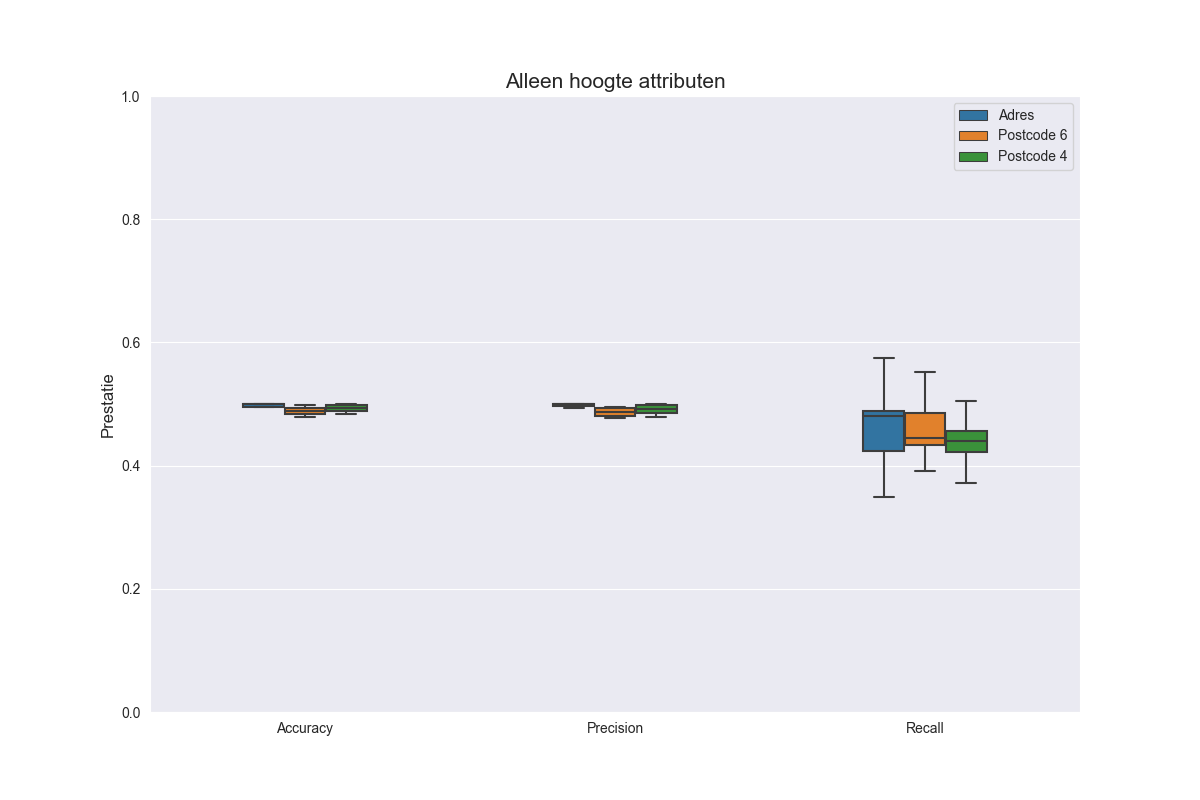
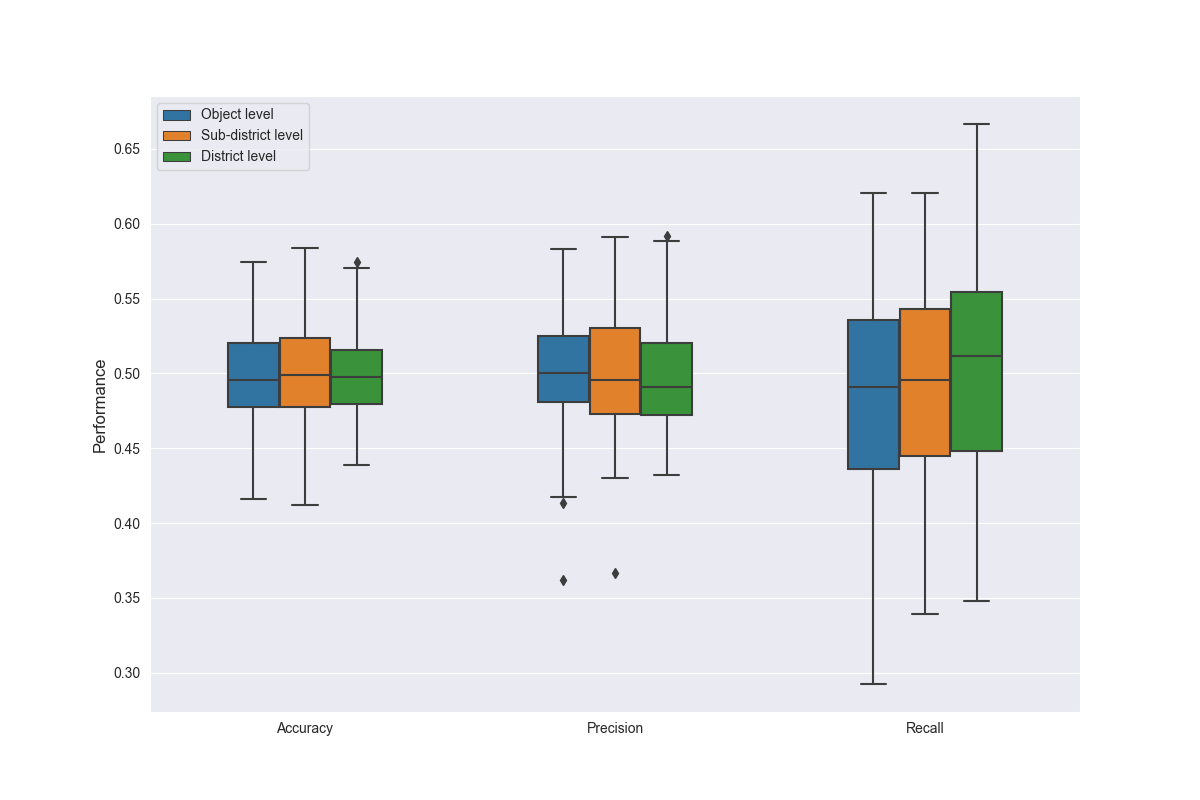
box

diff --git a/results/creating_plots/boxplotheightandrain.py b/results/creating_plots/boxplotheightandrain.py
@@ -9,7 +9,7 @@ dict_height_and_rain  ={
     "Resolution": [],
 }
 
-files = ["resultprecise.txt", "resultpostcode6.txt", "resultpostcode4.txt"]
+files = ["result_precise_rain_height_all.txt", "result_postcode6_all.txt", "result_postcode4_all.txt"]
 for file in files:
     with open("result_texts/" + file, "r") as f:
         all_lines = f.read().splitlines()
@@ -18,41 +18,39 @@ for file in files:
                 value = float(line.split(" ")[1])
                 dict_height_and_rain["Performance"].append("Accuracy")
                 dict_height_and_rain["Values"].append(value)
-                if file == "resultprecise.txt":
-                    dict_height_and_rain["Resolution"].append("Adres")
-                elif file == "resultpostcode6.txt":
-                    dict_height_and_rain["Resolution"].append("Postcode 6")
-                elif file == "resultpostcode4.txt":
-                    dict_height_and_rain["Resolution"].append("Postcode 4")
+                if file == "result_precise_rain_height_all.txt":
+                    dict_height_and_rain["Resolution"].append("Object level")
+                elif file == "result_postcode6_all.txt":
+                    dict_height_and_rain["Resolution"].append("Sub-district level")
+                elif file == "result_postcode4_all.txt":
+                    dict_height_and_rain["Resolution"].append("District level")
                     
             elif "Precision" in line:
                 value = float(line.split(" ")[1])
                 dict_height_and_rain["Performance"].append("Precision")
                 dict_height_and_rain["Values"].append(value)
-                if file == "resultprecise.txt":
-                    dict_height_and_rain["Resolution"].append("Adres")
-                elif file == "resultpostcode6.txt":
-                    dict_height_and_rain["Resolution"].append("Postcode 6")
-                elif file == "resultpostcode4.txt":
-                    dict_height_and_rain["Resolution"].append("Postcode 4")
+                if file == "result_precise_rain_height_all.txt":
+                    dict_height_and_rain["Resolution"].append("Object level")
+                elif file == "result_postcode6_all.txt":
+                    dict_height_and_rain["Resolution"].append("Sub-district level")
+                elif file == "result_postcode4_all.txt":
+                    dict_height_and_rain["Resolution"].append("District level")
                     
             elif "Recall" in line:
                 value = float(line.split(" ")[1])
                 dict_height_and_rain["Performance"].append("Recall")
                 dict_height_and_rain["Values"].append(value)
-                if file == "resultprecise.txt":
-                    dict_height_and_rain["Resolution"].append("Adres")
-                elif file == "resultpostcode6.txt":
-                    dict_height_and_rain["Resolution"].append("Postcode 6")
-                elif file == "resultpostcode4.txt":
-                    dict_height_and_rain["Resolution"].append("Postcode 4")
+                if file == "result_precise_rain_height_all.txt":
+                    dict_height_and_rain["Resolution"].append("Object level")
+                elif file == "result_postcode6_all.txt":
+                    dict_height_and_rain["Resolution"].append("Sub-district level")
+                elif file == "result_postcode4_all.txt":
+                    dict_height_and_rain["Resolution"].append("District level")
                     
 df_rain = pd.DataFrame(data=dict_height_and_rain)
 
 plt.rcParams['figure.figsize'] = (12,8)
 
 ax = sns.boxplot(x='Performance', y='Values', hue='Resolution', data=dict_height_and_rain, width=0.4)
-plt.ylabel("Prestatie", fontsize= 12)
-plt.title("Hoogte attributen en neerslag attribuut", fontsize= 15)
-ax.set(ylim=(0, 1))
+plt.ylabel("Performance", fontsize= 12)
 plt.savefig("hoogtenneerslag.png")

diff --git a/results/creating_plots/boxplotheight.py b/results/creating_plots/boxplotheight.py
@@ -9,7 +9,7 @@ dict_height  ={
     "Resolution": [],
 }
 
-files = ["resultpreciseheight.txt", "resultpostcode6height.txt", "resultpostcode4height.txt"]
+files = ["result_precise_height_all.txt", "result_postcode6_height_all.txt", "result_postcode4_height_all.txt"]
 for file in files:
     with open("result_texts/" + file, "r") as f:
         all_lines = f.read().splitlines()
@@ -18,42 +18,41 @@ for file in files:
                 value = float(line.split(" ")[1])
                 dict_height["Performance"].append("Accuracy")
                 dict_height["Values"].append(value)
-                if file == "resultpreciseheight.txt":
-                    dict_height["Resolution"].append("Adres")
-                elif file == "resultpostcode6height.txt":
-                    dict_height["Resolution"].append("Postcode 6")
-                elif file == "resultpostcode4height.txt":
-                    dict_height["Resolution"].append("Postcode 4")
+                if file == "result_precise_height_all.txt":
+                    dict_height["Resolution"].append("Object level")
+                elif file == "result_postcode6_height_all.txt":
+                    dict_height["Resolution"].append("Sub-district level")
+                elif file == "result_postcode4_height_all.txt":
+                    dict_height["Resolution"].append("District level")
                     
             elif "Precision" in line:
                 value = float(line.split(" ")[1])
                 dict_height["Performance"].append("Precision")
                 dict_height["Values"].append(value)
-                if file == "resultpreciseheight.txt":
-                    dict_height["Resolution"].append("Adres")
-                elif file == "resultpostcode6height.txt":
-                    dict_height["Resolution"].append("Postcode 6")
-                elif file == "resultpostcode4height.txt":
-                    dict_height["Resolution"].append("Postcode 4")
+                if file == "result_precise_height_all.txt":
+                    dict_height["Resolution"].append("Object level")
+                elif file == "result_postcode6_height_all.txt":
+                    dict_height["Resolution"].append("Sub-district level")
+                elif file == "result_postcode4_height_all.txt":
+                    dict_height["Resolution"].append("District level")
                     
             elif "Recall" in line:
                 value = float(line.split(" ")[1])
                 dict_height["Performance"].append("Recall")
                 dict_height["Values"].append(value)
-                if file == "resultpreciseheight.txt":
-                    dict_height["Resolution"].append("Adres")
-                elif file == "resultpostcode6height.txt":
-                    dict_height["Resolution"].append("Postcode 6")
-                elif file == "resultpostcode4height.txt":
-                    dict_height["Resolution"].append("Postcode 4")
+                if file == "result_precise_height_all.txt":
+                    dict_height["Resolution"].append("Object level")
+                elif file == "result_postcode6_height_all.txt":
+                    dict_height["Resolution"].append("Sub-district level")
+                elif file == "result_postcode4_height_all.txt":
+                    dict_height["Resolution"].append("District level")
                     
 df_rain = pd.DataFrame(data=dict_height)
 
 plt.rcParams['figure.figsize'] = (12,8)
 
-ax = sns.boxplot(x='Performance', y='Values', hue='Resolution', data=dict_height, width=0.4)
-plt.ylabel("Prestatie", fontsize= 12)
-plt.title("Alleen hoogte attributen", fontsize= 15)
-ax.set(ylim=(0, 1))
+ax = sns.boxplot(x='Performance', y='Values', hue='Resolution', data=dict_height, width=0.5)
+plt.ylabel("Performance", fontsize= 12)
+
 
 plt.savefig("alleenhoogte.png")

diff --git a/results/creating_plots/boxplotrain.py b/results/creating_plots/boxplotrain.py
@@ -9,7 +9,7 @@ dict_rain  ={
     "Resolution": [],
 }
 
-files = ["resultpreciserain.txt", "resultpostcode6rain.txt", "resultpostcode4rain.txt"]
+files = ["result_precise_rain_all.txt", "result_postcode6_rain_all.txt", "result_postcode4_rain_all.txt"]
 for file in files:
     with open("result_texts/" + file, "r") as f:
         all_lines = f.read().splitlines()
@@ -18,42 +18,40 @@ for file in files:
                 value = float(line.split(" ")[1])
                 dict_rain["Performance"].append("Accuracy")
                 dict_rain["Values"].append(value)
-                if file == "resultpreciserain.txt":
-                    dict_rain["Resolution"].append("Adres")
-                elif file == "resultpostcode6rain.txt":
-                    dict_rain["Resolution"].append("Postcode 6")
-                elif file == "resultpostcode4rain.txt":
-                    dict_rain["Resolution"].append("Postcode 4")
+                if file == "result_precise_rain_all.txt":
+                    dict_rain["Resolution"].append("Object level")
+                elif file == "result_postcode6_rain_all.txt":
+                    dict_rain["Resolution"].append("Sub-district level")
+                elif file == "result_postcode4_rain_all.txt":
+                    dict_rain["Resolution"].append("District level")
                     
             elif "Precision" in line:
                 value = float(line.split(" ")[1])
                 dict_rain["Performance"].append("Precision")
                 dict_rain["Values"].append(value)
-                if file == "resultpreciserain.txt":
-                    dict_rain["Resolution"].append("Adres")
-                elif file == "resultpostcode6rain.txt":
-                    dict_rain["Resolution"].append("Postcode 6")
-                elif file == "resultpostcode4rain.txt":
-                    dict_rain["Resolution"].append("Postcode 4")
+                if file == "result_precise_rain_all.txt":
+                    dict_rain["Resolution"].append("Object level")
+                elif file == "result_postcode6_rain_all.txt":
+                    dict_rain["Resolution"].append("Sub-district level")
+                elif file == "result_postcode4_rain_all.txt":
+                    dict_rain["Resolution"].append("District level")
                     
             elif "Recall" in line:
                 value = float(line.split(" ")[1])
                 dict_rain["Performance"].append("Recall")
                 dict_rain["Values"].append(value)
-                if file == "resultpreciserain.txt":
-                    dict_rain["Resolution"].append("Adres")
-                elif file == "resultpostcode6rain.txt":
-                    dict_rain["Resolution"].append("Postcode 6")
-                elif file == "resultpostcode4rain.txt":
-                    dict_rain["Resolution"].append("Postcode 4")
+                if file == "result_precise_rain_all.txt":
+                    dict_rain["Resolution"].append("Object level")
+                elif file == "result_postcode6_rain_all.txt":
+                    dict_rain["Resolution"].append("Sub-district level")
+                elif file == "result_postcode4_rain_all.txt":
+                    dict_rain["Resolution"].append("District level")
                     
 df_rain = pd.DataFrame(data=dict_rain)
 
 plt.rcParams['figure.figsize'] = (12,8)
 
 ax = sns.boxplot(x='Performance', y='Values', hue='Resolution', data=dict_rain, width=0.4)
-plt.ylabel("Prestatie", fontsize= 12)
-plt.title("Alleen neerslag attribuut", fontsize= 15)
-ax.set(ylim=(0, 1))
+plt.ylabel("Performance", fontsize= 12)
 
 plt.savefig("alleenneerslag.png")
